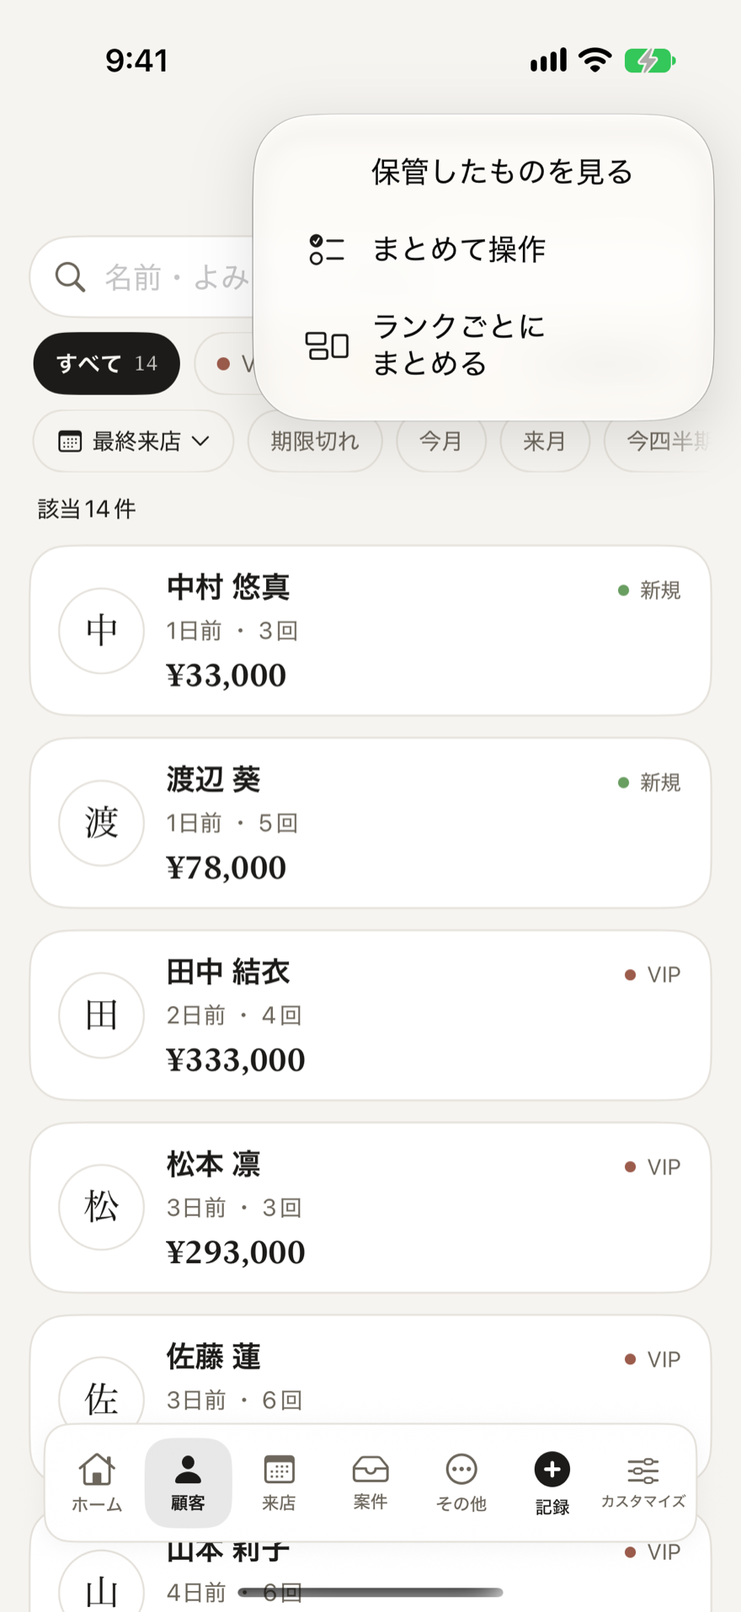
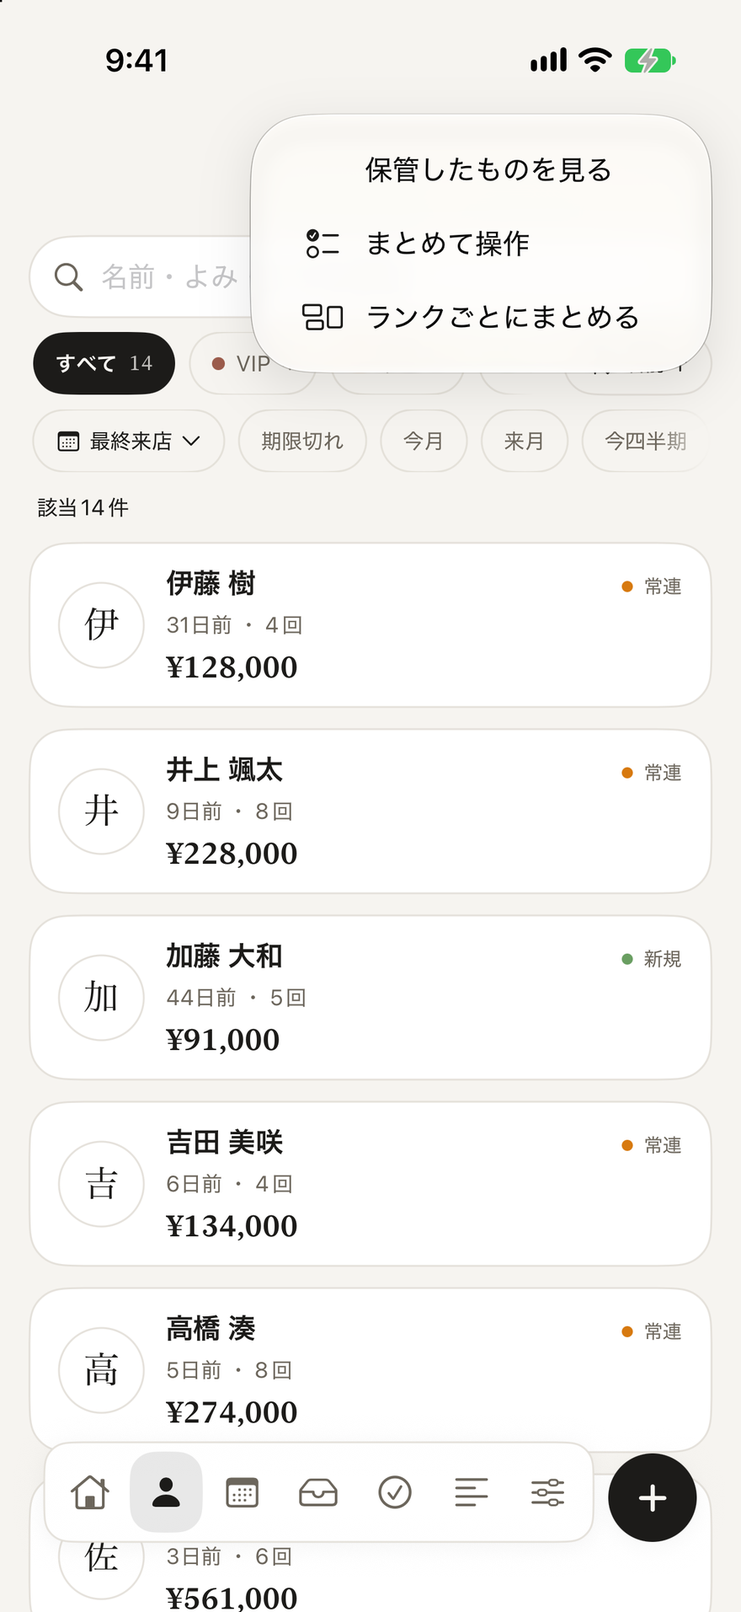
One CRM 1.5.0 に合わせる: 使い方ガイド（アイコンだけのタブ・右下の「＋」・スクロールで小さくなる）と画面14枚
- タブの説明から「その他」をなくし、縮む動きの説明と画像を追加
- 記録は「下のタブ」から右下の「＋」へ
- よくある質問を2つ追加（タブが小さくなった・どのアイコンがどのタブか）
- 紹介ページの画面5枚も新しいタブバーに差し替え

diff --git a/one-crm-guide.html b/one-crm-guide.html
@@ -26,10 +26,10 @@
 <link rel="apple-touch-icon" href="/apple-touch-icon.png?v=3">
 <link rel="stylesheet" href="./styles.css?v=20">
 <script type="application/ld+json">
-{"@context": "https://schema.org", "@type": "TechArticle", "headline": "One CRM の使い方", "description": "顧客管理アプリ One CRM の使い方。出発点の選び方、顧客の登録と記録、自動計算、項目とホームのカスタマイズ、法人営業の案件管理、通知、Apple Intelligence、チームでの共有、バックアップと CSV まで。", "url": "https://pohoda.jp/one-crm-guide.html", "image": "https://pohoda.jp/assets/og/og-one-crm.png", "inLanguage": "ja", "datePublished": "2026-10-20", "dateModified": "2026-11-10", "about": {"@type": "MobileApplication", "name": "One CRM", "url": "https://pohoda.jp/one-crm.html"}, "author": {"@type": "Organization", "name": "Pohoda", "url": "https://pohoda.jp/"}, "publisher": {"@type": "Organization", "name": "Pohoda", "url": "https://pohoda.jp/"}}
+{"@context": "https://schema.org", "@type": "TechArticle", "headline": "One CRM の使い方", "description": "顧客管理アプリ One CRM の使い方。出発点の選び方、顧客の登録と記録、自動計算、項目とホームのカスタマイズ、法人営業の案件管理、通知、Apple Intelligence、チームでの共有、バックアップと CSV まで。", "url": "https://pohoda.jp/one-crm-guide.html", "image": "https://pohoda.jp/assets/og/og-one-crm.png", "inLanguage": "ja", "datePublished": "2026-10-20", "dateModified": "2026-11-14", "about": {"@type": "MobileApplication", "name": "One CRM", "url": "https://pohoda.jp/one-crm.html"}, "author": {"@type": "Organization", "name": "Pohoda", "url": "https://pohoda.jp/"}, "publisher": {"@type": "Organization", "name": "Pohoda", "url": "https://pohoda.jp/"}}
 </script>
 <script type="application/ld+json">
-{"@context": "https://schema.org", "@type": "FAQPage", "mainEntity": [{"@type": "Question", "name": "「記録」を押すと、顧客の登録が開きます", "acceptedAnswer": {"@type": "Answer", "text": "「ゼロから作る」で始めると、来店などの記録の種類が入っていないため、こうなります。「カスタマイズ」の「ビジネス」で「ビジネスを追加」を押し、「サロン・教室」などの出発点を選んで作り直すのが早道です。いまの台帳のまま使うなら、「出来事」のコレクションと自動計算の項目を自分で作ります。"}}, {"@type": "Question", "name": "しばらく来ていない方を探したい", "acceptedAnswer": {"@type": "Answer", "text": "ホームの「しばらく会えていない方」に出ます。全員を順に見たいときは、顧客の一覧で並び順の「最終来店」を選び、もう一度「最終来店」を選んで矢印を「↑」にすると、長く来ていない方から並びます。"}}, {"@type": "Question", "name": "一覧に出す内容を変えたい", "acceptedAnswer": {"@type": "Answer", "text": "一覧の右上のスライダーのアイコンから「カードの見せ方」を開いて、出す項目を選びます。「項目」にある「詳細に最初から出す」は、詳細の画面と新しく登録する画面の設定です。"}}, {"@type": "Question", "name": "書き換えるのをやめたい", "acceptedAnswer": {"@type": "Answer", "text": "詳細の画面は、閉じると保存されます。書き換える前の内容に戻したいときは、もう一度その項目を押して直してください。"}}, {"@type": "Question", "name": "「分析」のタブが見当たりません", "acceptedAnswer": {"@type": "Answer", "text": "「分析」のタブは、最初は隠れています。「カスタマイズ」の「タブ」で、「分析」の目のアイコンを押すと表示されます。"}}, {"@type": "Question", "name": "11人目からの顧客が開けません", "acceptedAnswer": {"@type": "Answer", "text": "無料で使えるのは、全ビジネス合計で10人までです。登録の古い順に10人が開けて、それより後の顧客は鍵の印が付きます。顧客を「保管する」か削除すると枠が空きます。Pro にすると上限がなくなります。"}}, {"@type": "Question", "name": "最後に会った日や回数が変わりません", "acceptedAnswer": {"@type": "Answer", "text": "自動計算は、顧客につながった来店や注文などの記録から数えます。先の日付の記録（予定）は、その日が来るまで数えません。顧客につながっていない記録（CSV で名前が一致しなかった行など）は数えないので、記録を開いて、顧客の項目でお客様を選んでください。"}}, {"@type": "Question", "name": "ホームに何も出ません", "acceptedAnswer": {"@type": "Answer", "text": "ホームに置いたものは、当てはまる記録があるときだけ表示されます。たとえば「しばらく会えていない方」は、最後に会った日から30日以上たった方がいるときに出ます。記録が増えると並ぶようになります。"}}, {"@type": "Question", "name": "連絡先から取り込むボタンが見つかりません", "acceptedAnswer": {"@type": "Answer", "text": "「顧客」の一覧で、右上の「＋」を押すと「連絡先から取り込む」があります。"}}, {"@type": "Question", "name": "CSV が「ファイルを読み取れませんでした」と出ます", "acceptedAnswer": {"@type": "Answer", "text": "読めるのは、UTF-8 か Shift_JIS の CSV です。Excel のブック（.xlsx）のままでは読めないので、Excel で「CSV（コンマ区切り）」として保存し直してください。"}}, {"@type": "Question", "name": "アプリの画面がこのガイドと違います", "acceptedAnswer": {"@type": "Answer", "text": "このガイドはバージョン 1.4 の画面で説明しています。App Store で One CRM を最新版に更新してください。バージョンは「カスタマイズ」のいちばん下の「アプリ情報」で確かめられます。"}}, {"@type": "Question", "name": "ほかの端末に同じ内容が出ません", "acceptedAnswer": {"@type": "Answer", "text": "「カスタマイズ」の「iCloud 同期」がオンになっているか、両方の端末で同じ Apple アカウントの iCloud にサインインしているかを確かめてください。「iCloud のアカウントが変わったか…同期を止めています」と出ているときは、「いまの iCloud で同期を再開する」を押します。"}}, {"@type": "Question", "name": "通知が届きません", "acceptedAnswer": {"@type": "Answer", "text": "「カスタマイズ」の「通知」で「お知らせを受け取る」と「このビジネスのお知らせ」がオンになっているか、iPhone の設定アプリで One CRM の通知が許可されているかを確かめてください。"}}, {"@type": "Question", "name": "「データを開けませんでした」と出ます", "acceptedAnswer": {"@type": "Answer", "text": "記録が消えたわけではありません。「もう一度開く」を押すか、アプリを開き直してください。念のため、「控えを書き出す」でデータを保存しておくと安心です。"}}]}
+{"@context": "https://schema.org", "@type": "FAQPage", "mainEntity": [{"@type": "Question", "name": "「＋」（記録）を押すと、顧客の登録が開きます", "acceptedAnswer": {"@type": "Answer", "text": "「ゼロから作る」で始めると、来店などの記録の種類が入っていないため、こうなります。「カスタマイズ」の「ビジネス」で「ビジネスを追加」を押し、「サロン・教室」などの出発点を選んで作り直すのが早道です。いまの台帳のまま使うなら、「出来事」のコレクションと自動計算の項目を自分で作ります。"}}, {"@type": "Question", "name": "しばらく来ていない方を探したい", "acceptedAnswer": {"@type": "Answer", "text": "ホームの「しばらく会えていない方」に出ます。全員を順に見たいときは、顧客の一覧で並び順の「最終来店」を選び、もう一度「最終来店」を選んで矢印を「↑」にすると、長く来ていない方から並びます。"}}, {"@type": "Question", "name": "一覧に出す内容を変えたい", "acceptedAnswer": {"@type": "Answer", "text": "一覧の右上のスライダーのアイコンから「カードの見せ方」を開いて、出す項目を選びます。「項目」にある「詳細に最初から出す」は、詳細の画面と新しく登録する画面の設定です。"}}, {"@type": "Question", "name": "書き換えるのをやめたい", "acceptedAnswer": {"@type": "Answer", "text": "詳細の画面は、閉じると保存されます。書き換える前の内容に戻したいときは、もう一度その項目を押して直してください。"}}, {"@type": "Question", "name": "下のタブが小さくなりました", "acceptedAnswer": {"@type": "Answer", "text": "一覧を下へスクロールすると、タブは左下の丸いボタンに小さくなります。丸いボタンを押すか、上へ少し戻すと、もとの並びに戻ります。"}}, {"@type": "Question", "name": "どのアイコンがどのタブか分かりません", "acceptedAnswer": {"@type": "Answer", "text": "「カスタマイズ」の「タブ」に、アイコンと名前が並んでいます。使わないタブは、同じ場所で目のアイコンを押すと隠せます。"}}, {"@type": "Question", "name": "「分析」のタブが見当たりません", "acceptedAnswer": {"@type": "Answer", "text": "「分析」のタブは、最初は隠れています。「カスタマイズ」の「タブ」で、「分析」の目のアイコンを押すと表示されます。"}}, {"@type": "Question", "name": "11人目からの顧客が開けません", "acceptedAnswer": {"@type": "Answer", "text": "無料で使えるのは、全ビジネス合計で10人までです。登録の古い順に10人が開けて、それより後の顧客は鍵の印が付きます。顧客を「保管する」か削除すると枠が空きます。Pro にすると上限がなくなります。"}}, {"@type": "Question", "name": "最後に会った日や回数が変わりません", "acceptedAnswer": {"@type": "Answer", "text": "自動計算は、顧客につながった来店や注文などの記録から数えます。先の日付の記録（予定）は、その日が来るまで数えません。顧客につながっていない記録（CSV で名前が一致しなかった行など）は数えないので、記録を開いて、顧客の項目でお客様を選んでください。"}}, {"@type": "Question", "name": "ホームに何も出ません", "acceptedAnswer": {"@type": "Answer", "text": "ホームに置いたものは、当てはまる記録があるときだけ表示されます。たとえば「しばらく会えていない方」は、最後に会った日から30日以上たった方がいるときに出ます。記録が増えると並ぶようになります。"}}, {"@type": "Question", "name": "連絡先から取り込むボタンが見つかりません", "acceptedAnswer": {"@type": "Answer", "text": "「顧客」の一覧で、右上の「＋」を押すと「連絡先から取り込む」があります。"}}, {"@type": "Question", "name": "CSV が「ファイルを読み取れませんでした」と出ます", "acceptedAnswer": {"@type": "Answer", "text": "読めるのは、UTF-8 か Shift_JIS の CSV です。Excel のブック（.xlsx）のままでは読めないので、Excel で「CSV（コンマ区切り）」として保存し直してください。"}}, {"@type": "Question", "name": "アプリの画面がこのガイドと違います", "acceptedAnswer": {"@type": "Answer", "text": "このガイドはバージョン 1.5 の画面で説明しています。App Store で One CRM を最新版に更新してください。バージョンは「カスタマイズ」のいちばん下の「アプリ情報」で確かめられます。"}}, {"@type": "Question", "name": "ほかの端末に同じ内容が出ません", "acceptedAnswer": {"@type": "Answer", "text": "「カスタマイズ」の「iCloud 同期」がオンになっているか、両方の端末で同じ Apple アカウントの iCloud にサインインしているかを確かめてください。「iCloud のアカウントが変わったか…同期を止めています」と出ているときは、「いまの iCloud で同期を再開する」を押します。"}}, {"@type": "Question", "name": "通知が届きません", "acceptedAnswer": {"@type": "Answer", "text": "「カスタマイズ」の「通知」で「お知らせを受け取る」と「このビジネスのお知らせ」がオンになっているか、iPhone の設定アプリで One CRM の通知が許可されているかを確かめてください。"}}, {"@type": "Question", "name": "「データを開けませんでした」と出ます", "acceptedAnswer": {"@type": "Answer", "text": "記録が消えたわけではありません。「もう一度開く」を押すか、アプリを開き直してください。念のため、「控えを書き出す」でデータを保存しておくと安心です。"}}]}
 </script>
 <script type="application/ld+json">
 {"@context": "https://schema.org", "@type": "BreadcrumbList", "itemListElement": [{"@type": "ListItem", "position": 1, "name": "ホーム", "item": "https://pohoda.jp/"}, {"@type": "ListItem", "position": 2, "name": "One CRM", "item": "https://pohoda.jp/one-crm.html"}, {"@type": "ListItem", "position": 3, "name": "使い方ガイド", "item": "https://pohoda.jp/one-crm-guide.html"}]}
@@ -81,7 +81,7 @@
     <a class="back" href="./one-crm.html">← One CRM の紹介へ</a>
     <div class="app-tag">使い方ガイド</div>
     <h1>One CRM の<wbr>使い方</h1>
-    <div class="updated">2026年11月10日 更新（バージョン 1.4 に対応）</div>
+    <div class="updated">2026年11月14日 更新（バージョン 1.5 に対応）</div>
 
     <p class="lede">One CRM は、お客様の名前と「会ったこと」を記録するだけで、最後に会った日・回数・売上が自動で出る顧客台帳です。覚えることは3つだけです。まずはここから始めてください。</p>
 
@@ -102,8 +102,8 @@
       <div class="quick-step">
         <img src="./assets/screens/onecrm-guide-record.png" alt="記録の画面。お客様を選び、金額・メモ・日付を入れて保存する" width="880" height="1913" loading="lazy">
         <div class="quick-num">3</div>
-        <h3>会ったら「記録」を押す</h3>
-        <p>下の「記録」→ お客様を選ぶ → 金額を入れて「保存」。間違えたら、すぐ「取り消す」。</p>
+        <h3>会ったら「＋」で記録する</h3>
+        <p>右下の「＋」→ お客様を選ぶ → 金額を入れて「保存」。間違えたら、すぐ「取り消す」。</p>
       </div>
     </div>
     <p>これだけで、お客様ごとの「最後に会った日」「回数」「今月の売上」「累計」が自動で出ます。ホームには、しばらく会えていない方が並びます。残りの機能は、必要になったときに下の一覧から探してください。</p>
@@ -181,16 +181,21 @@
     <div class="callout">iCloud 同期がオンの端末で使い始めると、最初に「iCloud のデータを確認しています…」と出ます。ほかの端末で使っていたデータがあれば、そのまま読み込まれます。はじめて使う場合は「新しく始める」を押してください。</div>
 
     <h2 id="screens">画面の見方</h2>
-    <p>iPhone では、画面の下にタブが並びます。</p>
+    <p>iPhone では、画面の下にタブがアイコンで並びます。表示しているタブは、すべて並びます（多いときは2段になります）。右下の丸い「＋」は、会ったことをすぐに残す「記録」のボタンです。</p>
     <table>
-      <tr><th>ホーム</th><td>今日・明日の予定や、しばらく会えていない方など、いま気にかけるものが並びます。</td></tr>
-      <tr><th>顧客・来店・案件など</th><td>記録の種類ごとの一覧です。5つ以上あると、4つ目からは「その他」にまとまります。</td></tr>
-      <tr><th>記録</th><td>会ったことをすぐに残すボタンです。</td></tr>
-      <tr><th>カスタマイズ</th><td>商売（ビジネス）の切り替え、記録の種類、タブの並び、同期・通知・ロック・バックアップ、プランの設定です。</td></tr>
+      <tr><th>ホーム</th><td>家のアイコンです。今日・明日の予定や、しばらく会えていない方など、いま気にかけるものが並びます。</td></tr>
+      <tr><th>顧客・来店・案件など</th><td>記録の種類ごとの一覧です。種類ごとにアイコンが違います。どのアイコンがどの種類かは、「カスタマイズ」の「タブ」で確かめられます。</td></tr>
+      <tr><th>カスタマイズ</th><td>いちばん右のアイコンです。商売（ビジネス）の切り替え、記録の種類、タブの並び、同期・通知・ロック・バックアップ、プランの設定です。</td></tr>
+      <tr><th>＋（記録）</th><td>会ったことをすぐに残すボタンです。タブの右に、いつも出ています。</td></tr>
     </table>
     <figure class="article-fig">
-      <img src="./assets/screens/onecrm-guide-home.png" alt="One CRM のホーム画面。記録ボタン、今日・明日の来店、しばらく会えていない方、最近の記録が並ぶ" width="880" height="1913" loading="lazy">
-      <figcaption>ホーム。下にタブが並ぶ。右上のアイコンでホームに置くものを変えられる。</figcaption>
+      <img src="./assets/screens/onecrm-guide-home.png" alt="One CRM のホーム画面。今日・明日の来店、しばらく会えていない方、最近の記録が並ぶ。下にタブのアイコンが並び、右下に「＋」がある" width="880" height="1913" loading="lazy">
+      <figcaption>ホーム。下にタブがアイコンで並び、右下に「＋」（記録）がある。右上のアイコンでホームに置くものを変えられる。</figcaption>
+    </figure>
+    <p>一覧を下へスクロールすると、タブは左下の丸いボタン（いま開いているタブのアイコン）に小さくなります。丸いボタンを押すか、上へ少し戻すと、もとの並びに戻ります。「＋」は小さくならないので、いつでも押せます。</p>
+    <figure class="article-fig">
+      <img src="./assets/screens/onecrm-guide-list-scrolled.png" alt="顧客の一覧を下へスクロールしたところ。タブは左下の丸いボタンに小さくなり、右下に「＋」がある" width="880" height="1913" loading="lazy">
+      <figcaption>スクロール中。タブは左下の丸に小さくなる。押すと開く。</figcaption>
     </figure>
     <p>使わないタブは、「カスタマイズ」の「タブ」で目のアイコンを押すと隠せます。上下の矢印で並べ替えもできます。「分析」のタブは最初は隠れているので、使うときは同じ場所で表示します。</p>
     <p>このガイドは、アプリの「カスタマイズ」→「サポート」→「使い方」からいつでも開けます。</p>
@@ -209,12 +214,12 @@
 
     <h2 id="customer">お客様を登録する</h2>
     <ol>
-      <li>「顧客」のタブで、右上の「＋」を押し、「手で入力」を選びます。</li>
+      <li>「顧客」のタブ（人のアイコン）で、右上の「＋」を押し、「手で入力」を選びます。</li>
       <li>名前を入れます。先頭の丸い部分を押すと写真も登録できます。</li>
       <li>ほかに入れたい項目は「項目を追加」から足します。</li>
       <li>右上の「保存」を押します。</li>
     </ol>
-    <p>タブの名前は、出発点によって「お客様」「取引先」などになります。</p>
+    <p>一覧の呼び名は、出発点によって「お客様」「取引先」などになります。</p>
     <h3>連絡先からまとめて入れる</h3>
     <p>「顧客」の一覧で、右上の「＋」を押し、「連絡先から取り込む」を選びます。名前・よみ・電話・メール・顔写真が入り、同じ名前の人は取り込みません。</p>
     <figure class="article-fig">
@@ -225,7 +230,7 @@
 
     <h2 id="log">会ったことを記録する</h2>
     <ol>
-      <li>下のタブの「記録」を押します。</li>
+      <li>画面の右下の「＋」を押します（ホームの「＋ 記録」でも同じです）。</li>
       <li>お客様を選びます。最近やりとりした方が並ぶので、名前を押すだけです。並んでいない方は「探す」、はじめての方は「新規」を押します。</li>
       <li>金額があれば入れます。前に使った金額がボタンで出るので、同じ金額なら押すだけです。</li>
       <li>必要なら、メモを書きます。メニューの内容や同伴など、ほかの項目も入れるときは「ほかの項目」を押して開きます。</li>
@@ -244,7 +249,7 @@
       <figcaption>保存した直後。「取り消す」で戻せる。</figcaption>
     </figure>
     <p>あとから気づいたときは、ホームの「最近の記録」からその記録を開き、左上の「…」から「削除」を押します。金額や日付だけ直すなら、開いて項目を押せば書き換えられます。</p>
-    <div class="callout">「ゼロから作る」で始めた場合は、来店などの記録の種類がないため、「記録」を押すと新しい顧客の登録が開きます。会ったことを残したいときは、<a href="#collection">「出来事」のコレクション</a>を作り、<a href="#rollup">自動計算の項目</a>を足してください。</div>
+    <div class="callout">「ゼロから作る」で始めた場合は、来店などの記録の種類がないため、「＋」を押すと新しい顧客の登録が開きます。会ったことを残したいときは、<a href="#collection">「出来事」のコレクション</a>を作り、<a href="#rollup">自動計算の項目</a>を足してください。</div>
 
     <h2 id="detail">お客様の詳細を見る</h2>
     <p>一覧でお客様を押すと、詳細が開きます。</p>
@@ -356,7 +361,7 @@
 
     <h2 id="collection">コレクションとビジネス</h2>
     <h3>コレクション（記録の種類）を足す</h3>
-    <p>顧客・来店・注文・在庫のように、記録したいものの種類を「コレクション」と呼びます。「カスタマイズ」の「コレクション」で「コレクションを追加」を押し、呼び名・アイコン・種類を選んで作ります。作ったコレクションは、自動でタブに並びます。</p>
+    <p>顧客・来店・注文・在庫のように、記録したいものの種類を「コレクション」と呼びます。「カスタマイズ」の「コレクション」で「コレクションを追加」を押し、呼び名・アイコン・種類を選んで作ります。作ったコレクションは、自動でタブに並びます。タブのアイコンは種類から自動で決まり、同じ種類のコレクションを増やしても別のアイコンになります。</p>
     <figure class="article-fig">
       <img src="./assets/screens/onecrm-guide-customize.png" alt="カスタマイズの画面。ビジネス、コレクション、タブの設定が並ぶ" width="880" height="1913" loading="lazy">
       <figcaption>カスタマイズ。上から、ビジネス・コレクション・タブ。</figcaption>
@@ -380,7 +385,7 @@
       <li>「取引先」のタブで会社を登録します。</li>
       <li>「担当者」のタブの「＋」で担当者を登録し、「取引先」で会社を選びます。1社に何人でもつなげられます。</li>
       <li>「案件」のタブで案件を登録し、取引先と担当者を選びます。</li>
-      <li>商談や訪問をしたら、「記録」から活動履歴を残します。最終接触と活動回数が自動で更新されます。</li>
+      <li>商談や訪問をしたら、右下の「＋」から活動履歴を残します。最終接触と活動回数が自動で更新されます。</li>
     </ol>
     <p>案件の一覧は、ステータス（案件化・見積提示・確度50%・コミット・受注・失注）ごとにまとまり、段階ごとの件数と金額の小計が出ます。上のボタンで段階ごとに絞り込めます。段階を進めるときは、案件を開いて「ステータス」を選び直します。</p>
     <p>段階の名前や数は、「ステータス」の「選択肢を編集」で自分のやり方に合わせて作り替えられます。「終了した案件として扱う」をオンにした段階の案件は、ホームの「動きが無い案件」や通知から外れます。</p>
@@ -464,17 +469,19 @@
 
     <h2 id="trouble">うまくいかないとき</h2>
     <div class="faq">
-      <details><summary>「記録」を押すと、顧客の登録が開きます</summary><p>「ゼロから作る」で始めると、来店などの記録の種類が入っていないため、こうなります。「カスタマイズ」の「ビジネス」で「ビジネスを追加」を押し、「サロン・教室」などの出発点を選んで作り直すのが早道です。いまの台帳のまま使うなら、「出来事」のコレクションと自動計算の項目を自分で作ります。</p></details>
+      <details><summary>「＋」（記録）を押すと、顧客の登録が開きます</summary><p>「ゼロから作る」で始めると、来店などの記録の種類が入っていないため、こうなります。「カスタマイズ」の「ビジネス」で「ビジネスを追加」を押し、「サロン・教室」などの出発点を選んで作り直すのが早道です。いまの台帳のまま使うなら、「出来事」のコレクションと自動計算の項目を自分で作ります。</p></details>
       <details><summary>しばらく来ていない方を探したい</summary><p>ホームの「しばらく会えていない方」に出ます。全員を順に見たいときは、顧客の一覧で並び順の「最終来店」を選び、もう一度「最終来店」を選んで矢印を「↑」にすると、長く来ていない方から並びます。</p></details>
       <details><summary>一覧に出す内容を変えたい</summary><p>一覧の右上のスライダーのアイコンから「カードの見せ方」を開いて、出す項目を選びます。「項目」にある「詳細に最初から出す」は、詳細の画面と新しく登録する画面の設定です。</p></details>
       <details><summary>書き換えるのをやめたい</summary><p>詳細の画面は、閉じると保存されます。書き換える前の内容に戻したいときは、もう一度その項目を押して直してください。</p></details>
+      <details><summary>下のタブが小さくなりました</summary><p>一覧を下へスクロールすると、タブは左下の丸いボタンに小さくなります。丸いボタンを押すか、上へ少し戻すと、もとの並びに戻ります。</p></details>
+      <details><summary>どのアイコンがどのタブか分かりません</summary><p>「カスタマイズ」の「タブ」に、アイコンと名前が並んでいます。使わないタブは、同じ場所で目のアイコンを押すと隠せます。</p></details>
       <details><summary>「分析」のタブが見当たりません</summary><p>「分析」のタブは、最初は隠れています。「カスタマイズ」の「タブ」で、「分析」の目のアイコンを押すと表示されます。</p></details>
       <details><summary>11人目からの顧客が開けません</summary><p>無料で使えるのは、全ビジネス合計で10人までです。登録の古い順に10人が開けて、それより後の顧客は鍵の印が付きます。顧客を「保管する」か削除すると枠が空きます。Pro にすると上限がなくなります。</p></details>
       <details><summary>最後に会った日や回数が変わりません</summary><p>自動計算は、顧客につながった来店や注文などの記録から数えます。先の日付の記録（予定）は、その日が来るまで数えません。顧客につながっていない記録（CSV で名前が一致しなかった行など）は数えないので、記録を開いて、顧客の項目でお客様を選んでください。</p></details>
       <details><summary>ホームに何も出ません</summary><p>ホームに置いたものは、当てはまる記録があるときだけ表示されます。たとえば「しばらく会えていない方」は、最後に会った日から30日以上たった方がいるときに出ます。記録が増えると並ぶようになります。</p></details>
       <details><summary>連絡先から取り込むボタンが見つかりません</summary><p>「顧客」の一覧で、右上の「＋」を押すと「連絡先から取り込む」があります。</p></details>
       <details><summary>CSV が「ファイルを読み取れませんでした」と出ます</summary><p>読めるのは、UTF-8 か Shift_JIS の CSV です。Excel のブック（.xlsx）のままでは読めないので、Excel で「CSV（コンマ区切り）」として保存し直してください。</p></details>
-      <details><summary>アプリの画面がこのガイドと違います</summary><p>このガイドはバージョン 1.4 の画面で説明しています。App Store で One CRM を最新版に更新してください。バージョンは「カスタマイズ」のいちばん下の「アプリ情報」で確かめられます。</p></details>
+      <details><summary>アプリの画面がこのガイドと違います</summary><p>このガイドはバージョン 1.5 の画面で説明しています。App Store で One CRM を最新版に更新してください。バージョンは「カスタマイズ」のいちばん下の「アプリ情報」で確かめられます。</p></details>
       <details><summary>ほかの端末に同じ内容が出ません</summary><p>「カスタマイズ」の「iCloud 同期」がオンになっているか、両方の端末で同じ Apple アカウントの iCloud にサインインしているかを確かめてください。「iCloud のアカウントが変わったか…同期を止めています」と出ているときは、「いまの iCloud で同期を再開する」を押します。</p></details>
       <details><summary>通知が届きません</summary><p>「カスタマイズ」の「通知」で「お知らせを受け取る」と「このビジネスのお知らせ」がオンになっているか、iPhone の設定アプリで One CRM の通知が許可されているかを確かめてください。</p></details>
       <details><summary>「データを開けませんでした」と出ます</summary><p>記録が消えたわけではありません。「もう一度開く」を押すか、アプリを開き直してください。念のため、「控えを書き出す」でデータを保存しておくと安心です。</p></details>
